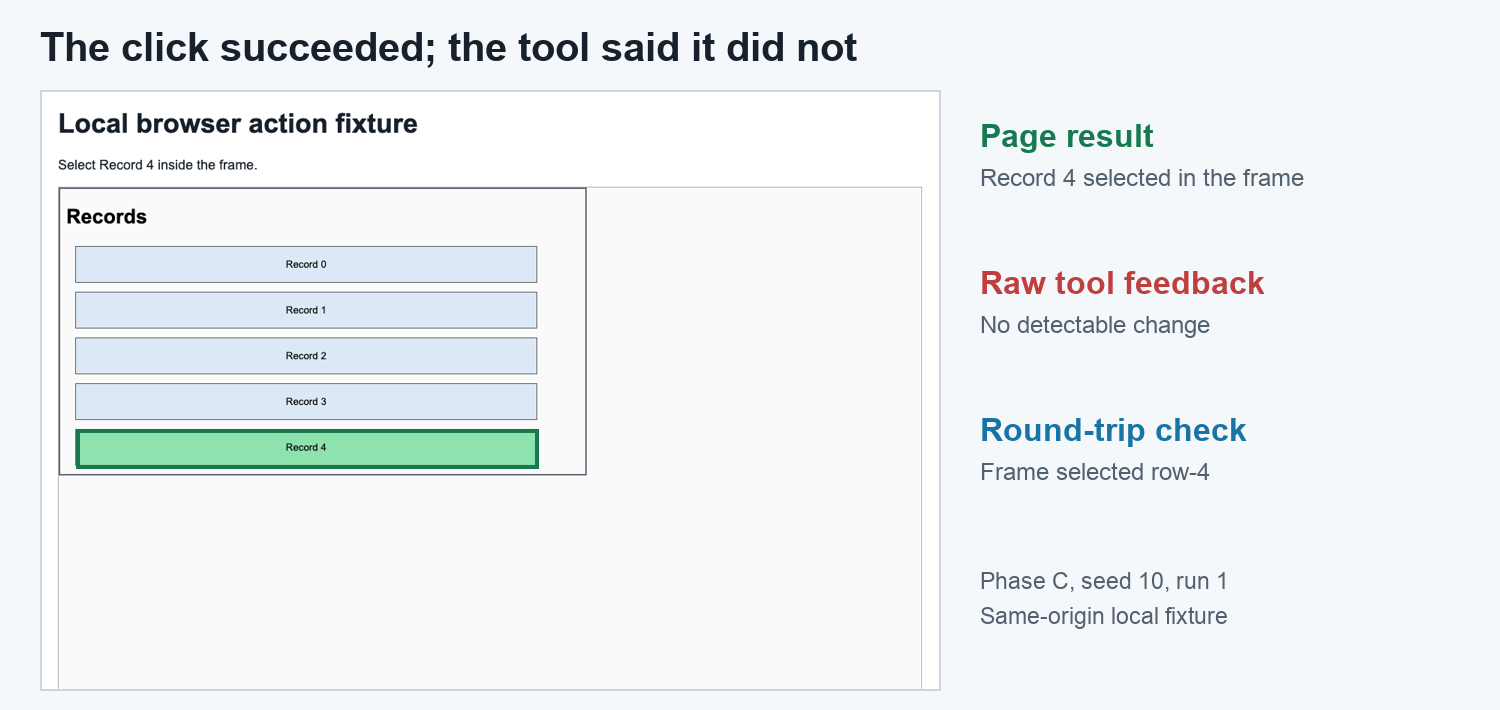
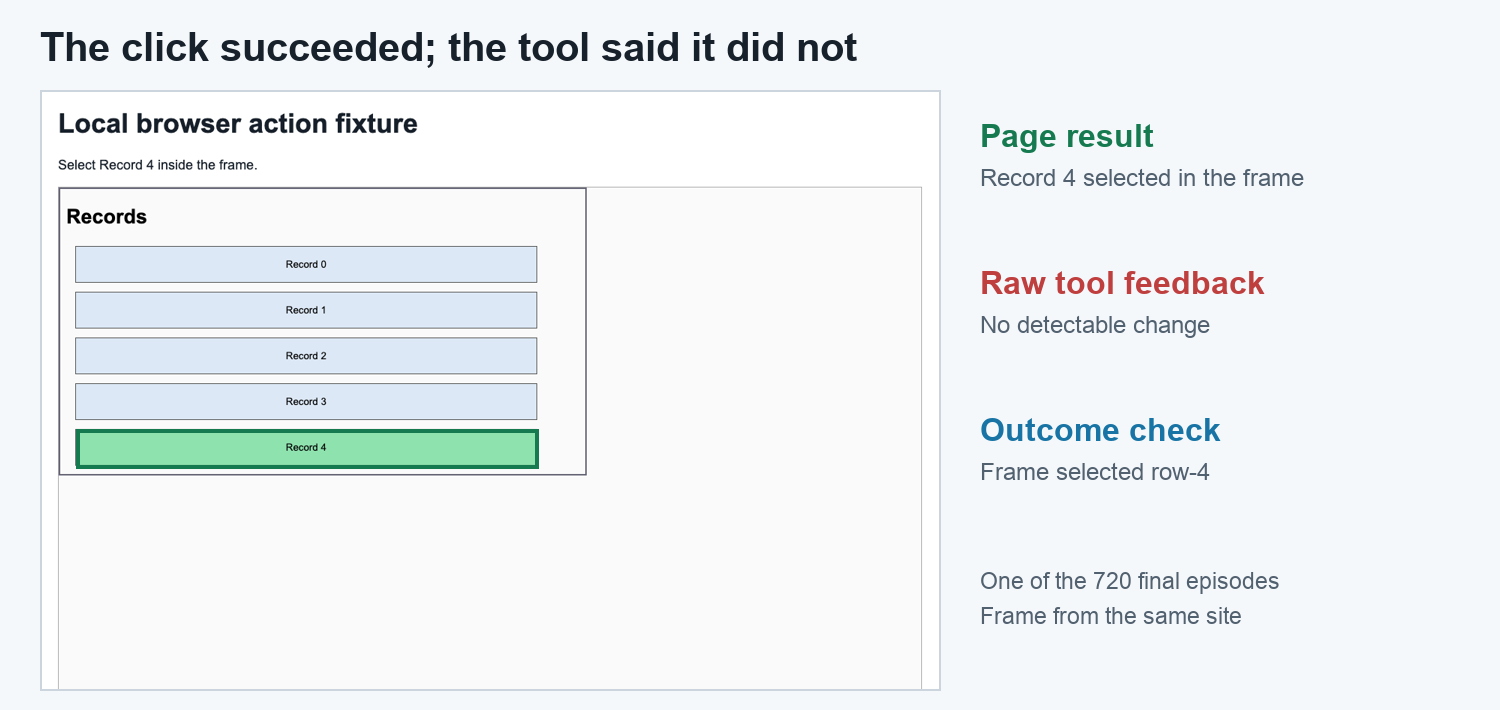
Final article text, new check name, and refreshed figures
Rename the task specific check to Outcome check in the article and two figures, explain the coordinate mismatch, add a section for web developers, and connect every paragraph to the one before.

Changed region(s): [[0.644, 0.8056, 0.8587, 0.8986], [0.644, 0.5887, 0.828, 0.6197]]

diff --git a/make_visual_evidence.py b/make_visual_evidence.py
@@ -69,9 +69,9 @@ def iframe():
     d.rectangle((76, 429, 538, 468), outline=GREEN, width=4)
     label(d, (980, 118), "Page result", "Record 4 selected in the frame", GREEN)
     label(d, (980, 265), "Raw tool feedback", "No detectable change", RED)
-    label(d, (980, 412), "Round-trip check", "Frame selected row-4", BLUE)
-    d.text((980, 568), "Phase C, seed 10, run 1", font=font(23), fill=MUTED)
-    d.text((980, 603), "Same-origin local fixture", font=font(23), fill=MUTED)
+    label(d, (980, 412), "Outcome check", "Frame selected row-4", BLUE)
+    d.text((980, 568), "One of the 720 final episodes", font=font(23), fill=MUTED)
+    d.text((980, 603), "Frame from the same site", font=font(23), fill=MUTED)
     base.save(OUT / "iframe_feedback_evidence.png")
 
 

diff --git a/make_phase_c_figure.py b/make_phase_c_figure.py
@@ -30,7 +30,7 @@ def main():
         for j,policy in enumerate(("unverified","generic","round_trip")):
             bar_y=y+36+j*32
             value=data["by_task"][task][policy]["successes"]
-            draw.text((55,bar_y),policy.replace("_"," ").title(),font=small,fill="#3b4855")
+            draw.text((55,bar_y),{"unverified":"Unverified","generic":"Generic","round_trip":"Outcome check"}[policy],font=small,fill="#3b4855")
             draw.rounded_rectangle((220,bar_y,1120,bar_y+21),radius=8,fill="#eef1f4")
             if value:
                 draw.rounded_rectangle((220,bar_y,220+900*value/60,bar_y+21),radius=8,fill=COLORS[policy])

diff --git a/draft.md b/draft.md
@@ -1,24 +1,32 @@
-# What Browser Agent Checks Can See, and What They Cannot Fix
+# I Broke a Browser Agent on Purpose. Spotting the Fault Was Not the Same as Fixing It
 
 *I replayed correct model decisions through four broken browser actions. A simple page check missed half of the wrong clicks, and raised a false alarm on every click that worked inside an embedded page.*
 
-[WebFovea](https://arxiv.org/html/2610.03036v2), a paper by Jiangang Han, describes a browser agent whose clicks landed at three quarters of the intended coordinates. A browser agent is a program that lets an artificial intelligence model inspect a web page and choose actions such as clicking a button. The model had aimed on a scaled down picture of the page, and the software used its coordinates as if they were measured on the full size page.
+[WebFovea](https://arxiv.org/html/2610.03036v2), a paper by Jiangang Han, reports a disquieting browser agent failure. A mismatch between screenshot and browser coordinates placed clicks at three quarters of their intended position. A click meant for a point 400 pixels across landed 300 pixels across.
 
-WebFovea reports other failures in the software between the model and the page. Special marker text leaked into search boxes, and a click inside a page embedded in another page was reported as having no effect. Its score in a 2026 contest on live websites rose from 31.0 to 57.0 out of 100 across four submissions using the same model. Each submission bundled several changes, and the live websites could vary, so the score alone does not show which fix mattered most. That is the gap I tried to look at on a small scale.
+The mismatch came from the service that runs the model, which shrank each screenshot before the model looked at it. The paper estimates that a 1920 by 1080 screenshot reached the model as about 1440 by 810, which is three quarters of the size. Anthropic's [vision documentation](https://platform.claude.com/docs/en/build-with-claude/vision) describes the same behavior for its own models. It says large images are scaled down to cap their cost, and that the model answers in positions on the resized picture. The paper's software used those positions as if they were measured on the full size screen, so every click landed at three quarters of the intended spot.
 
-I wanted to test what happens after the model makes a correct choice. I built a small browser site, recorded 80 successful decisions from Claude Haiku 5.5, a small, low cost model from Anthropic, and replayed those decisions with deliberate faults. A check is a small piece of code that looks at the page after an action and decides whether the action worked. I measured whether checks spotted the fault and whether the agent still finished the task.
+The agent in the paper is a browser agent, a program that lets an artificial intelligence model inspect a web page and choose actions such as clicking a button. Coordinates, the numbers in the click example above, are positions on the screen, given in pixels.
 
-Spotting a fault and getting past it turned out to be different problems. The [WebFovea paper and its code](https://github.com/jianganghan/WebFovea) motivated my setup. The results below come from my own browser pages and saved step by step logs.
+Besides the click error, WebFovea reports two more failures in the software between the model and the page. Hidden end of message markers from the model were typed into search boxes. A click inside a page embedded in another page worked, but was reported as having no effect.
+
+The paper fixed failures like these across four submissions to a 2026 contest on live websites. The agent's score rose from 31.0 to 57.0 out of 100 with the same model. Each submission bundled several changes, and the live websites could vary, so the score alone does not show which fix mattered most. That is the gap I tried to look at on a small scale.
+
+To look at that gap, I tested what happens after the model makes a correct choice. I built a small browser site with four short tasks, such as searching for a record and clicking a button. I asked Claude Haiku 5.5, a small, low cost model from Anthropic, to complete them.
+
+I saved 80 of its decisions that worked, then replayed each through browser code that I had deliberately broken. A check is a small piece of code that looks at the page after an action and decides whether the action worked. I measured whether checks spotted the fault and whether the agent, meaning the model plus the code that drives the browser, still finished the task.
+
+Spotting a fault and getting past it turned out to be different problems. The faults matter to anyone who asks an AI tool to click through a website, including web developers and people who build sites by describing them to an AI tool. The [WebFovea paper and its code](https://github.com/jianganghan/WebFovea) motivated my setup. The results below come from my own browser pages and saved step by step logs.
 
 The [code, step by step logs, figures, and recording](https://github.com/abduldattijo/web-agent-round-trip) are public. The [first test](https://github.com/abduldattijo/web-agent-round-trip/blob/main/results/phase_a.jsonl), where I ran the checks on 40 versions of each page, and the [final agent runs](https://github.com/abduldattijo/web-agent-round-trip/blob/main/results/phase_c.jsonl) support the counts below.
 
 ## One right decision, two different clicks
 
-The test page shows a grid of numbered buttons, Item 0 to Item 24. The agent saw a 900 pixel wide screenshot of it and was asked to click Item 15. It answered with the image point `(150, 413)`, meaning 150 pixels across and 413 down from the top left corner. The browser's visible area, called the viewport, was 1200 pixels wide. I made the screenshot smaller on purpose, to copy the problem in the paper.
+One of the 80 saved decisions shows the problem clearly. The test page shows a grid of numbered buttons, Item 0 to Item 24. The agent saw a 900 pixel wide screenshot of it and was asked to click Item 15. It answered with the image point `(150, 413)`, meaning 150 pixels across and 413 down from the top left corner. The browser's visible area, called the viewport, was 1200 pixels wide.
 
-The executor, the code that sends an action to the browser, must scale each image coordinate up to browser size. Here the browser is 1200 pixels wide and the image is 900, so the scale is four thirds. The working executor multiplied 150 by four thirds to get 200, and 413 by four thirds to get 550.67. It clicked `(200, 550.67)` in browser pixels and selected Item 15.
+I made the screenshot smaller on purpose, to copy the problem in the paper. That means the executor, the code that sends an action to the browser, must scale each image coordinate up to browser size. Here the browser is 1200 pixels wide and the image is 900, so the scale is four thirds. The working executor multiplied 150 by four thirds to get 200, and 413 by four thirds to get 550.67. It clicked `(200, 550.67)` in browser pixels and selected Item 15.
 
-The broken executor sent `(150, 413)` directly as browser pixels. That point fell on Item 10, one row above Item 15, so Item 10 was selected. The screenshot, instruction, and recorded model decision were identical in both replays.
+The broken executor skipped that scaling and sent `(150, 413)` directly as browser pixels. That point fell on Item 10, one row above Item 15, so Item 10 was selected. I saved the model's answer and ran it twice, once through each executor. The screenshot, instruction, and saved answer were identical both times.
 
 The following code shows the general conversion. In this experiment, both image dimensions were three quarters of the matching browser dimensions, so each coordinate was multiplied by four thirds.
 
@@ -28,7 +36,7 @@ browser_y = image_y * viewport_height / image_height
 page.mouse.click(browser_x, browser_y)
 ```
 
-Playwright is a tool that lets code control a browser. [Its mouse documentation](https://playwright.dev/python/docs/api/class-mouse) specifies browser viewport pixels for a click. The conversion belongs in the executor, the step between the model's answer and the browser. My 900 by 600 image and 1200 by 800 viewport follow the proportions of the three quarter error in WebFovea. This is a constructed example on my site, not a second observation from live websites.
+The click itself comes from Playwright, a tool that lets code control a browser. [Its mouse documentation](https://playwright.dev/python/docs/api/class-mouse) specifies browser viewport pixels for a click. The conversion belongs in the executor, the step between the model's answer and the browser. My 900 by 600 image and 1200 by 800 viewport follow the proportions of the three quarter error in WebFovea. This is a constructed example on my site, not a second observation from live websites.
 
 ![Two screenshots of the same recorded click show Item 15 selected with correct conversion and Item 10 selected with faulty conversion.](figures/continuous_click_seed12_comparison.png)
 
@@ -38,11 +46,11 @@ Watch the [continuous browser recording](https://github.com/abduldattijo/web-age
 
 ## What did I break, and what could the checks see?
 
-The [WebFovea paper](https://arxiv.org/html/2610.03036v2) treats each browser action as a round trip. The action travels from the model to the page, and the result travels back. The paper splits that trip into four steps.
+To choose what to break, I used the paper's way of describing a browser action. The [WebFovea paper](https://arxiv.org/html/2610.03036v2) treats each one as a round trip. The action travels from the model to the page, and the result travels back. The paper splits that trip into four steps.
 
 A parser turns the model's reply into an action. An executor sends the action to the page. Feedback tells the model what happened. Observation is what the model is shown afterwards, usually a new screenshot.
 
-An embedded frame, or iframe, is a page inside another page. A tooltip is the small label that appears beside a chart mark when the pointer rests on it. The text `[im_end]` in the table below stands in for an end of message marker that some AI models use. I added one deliberate fault at each step.
+Three terms in the table need a quick explanation. An embedded frame, or iframe, is a page inside another page. A tooltip is the small label that appears beside a chart mark when the pointer rests on it. The text `[im_end]` in the table below stands in for an end of message marker that some AI models use. I added one deliberate fault at each step.
 
 | Step | Task | Deliberate fault |
 | --- | --- | --- |
@@ -51,17 +59,17 @@ An embedded frame, or iframe, is a page inside another page. A tooltip is the sm
 | Feedback | Select a row inside an embedded frame | Say “No detectable change” after the click succeeds |
 | Observation | Hover over a chart mark to read a value | Capture the image before the tooltip appears |
 
-My embedded frame comes from the same site as its parent page, which is easier because the page can read its own frame directly. The paper's frame example involved a harder case across sites.
+In the Feedback row, my embedded frame comes from the same site as its parent page, which is easier because the page can read its own frame directly. The paper's frame example involved a harder case across sites.
 
-For each task, I generated 40 layouts with different target positions or values. A layout is one arrangement of the same page. Every check was applied to 40 faulty actions and 40 working actions. The working actions matter because a check that always warns would catch every fault and also interrupt every correct action.
+To see whether the checks caught these faults, I generated 40 layouts for each task, with different target positions or values. A layout is one arrangement of the same page. Every check was applied to 40 faulty actions and 40 working actions. The working actions matter because a check that always warns would catch every fault and also interrupt every correct action.
 
-The page kept its own record of the text entered, the button clicked, the frame row selected, and the tooltip visible when the screenshot was taken. That record was the answer key for counting detected faults. The checks could not read it while deciding whether to warn.
+To know whether a check was right, the page kept its own record. It logged the text entered, the button clicked, the frame row selected, and the tooltip visible when the screenshot was taken. That record was the answer key for counting detected faults. The checks could not read it while deciding whether to warn.
 
-I compared four policies, meaning four ways of checking an action. **Unverified** accepted the browser tool's message to the model as true. **Generic** looked for changes in the web address or the main page's state. **Pixel** compared screenshots. **Round trip** checked the specific outcome requested, such as the exact field text, the selected button, the row inside the frame, or whether the chart value appeared.
+I compared four policies, meaning four ways of checking an action. **Unverified** accepted the message the browser tool sent back to the model, such as “No detectable change”, as true. **Generic** looked for changes in the web address or the main page's state. **Pixel** compared screenshots. **Outcome check** compared the page with the specific outcome requested, such as the exact field text, the selected button, the row inside the frame, or whether the chart value appeared.
 
 The first table counts faults caught out of 40 faulty actions. The second counts false alarms out of 40 working actions. A higher count is better in the first table and worse in the second.
 
-| Faults caught out of 40 | Unverified | Generic | Pixel | Round trip |
+| Faults caught out of 40 | Unverified | Generic | Pixel | Outcome check |
 | --- | --- | --- | --- | --- |
 | Corrupted search text | 0 | 0 | 3 | 40 |
 | Wrong click position | 0 | 20 | 20 | 40 |
@@ -70,7 +78,7 @@ The first table counts faults caught out of 40 faulty actions. The second counts
 
 *Table 1. Faults caught in the first test, which used 40 layouts. Higher counts mean more of the injected faults were detected. Counts came from the page's own record.*
 
-| False alarms out of 40 | Unverified | Generic | Pixel | Round trip |
+| False alarms out of 40 | Unverified | Generic | Pixel | Outcome check |
 | --- | --- | --- | --- | --- |
 | Working exact search | 0 | 0 | 40 | 0 |
 | Working target click | 0 | 0 | 0 | 0 |
@@ -79,58 +87,58 @@ The first table counts faults caught out of 40 faulty actions. The second counts
 
 *Table 2. Warnings on 40 working actions per task. Lower counts mean fewer needless warnings.*
 
-Generic missed 20 of 40 wrong clicks. In those, the click hit a different button, which turned green, so the page looked as if it had responded. The other 20 clicks hit empty space, and Generic caught those. It also warned on all 40 correct frame clicks because the main page did not change when the embedded page did.
+The simple checks failed in different ways. Generic missed 20 of 40 wrong clicks. In those, the click hit a different button, which turned green, so the page looked as if it had responded. The other 20 clicks hit empty space, and Generic caught those. It also warned on all 40 correct frame clicks because the main page did not change when the embedded page did.
 
-Pixel found only three corrupted searches and warned on all 40 working searches, because the page looks different after every search. A change in pixels does not prove that an exact query survived parsing.
+Pixel had a different weakness. It found only three corrupted searches and warned on all 40 working searches, because the page looks different after every search. A change in pixels does not prove that an exact query survived parsing.
 
-Round trip found all 40 faults in each task and made no false alarms on the matching working actions. I wrote both the checks and the page code used as the answer key. The checks were built for these faults, so perfect detection here proves little about a different website. A mistake in my thinking could therefore sit in both.
+By contrast, Outcome check found all 40 faults in each task and made no false alarms on the matching working actions. I wrote both the checks and the page code used as the answer key. The checks were built for these faults, so perfect detection here proves little about a different website. A mistake in my thinking could therefore sit in both.
 
 ![Clean and corrupted text shown in a search field.](figures/search_token_evidence.png)
 
-*Figure 2. Screenshot by author. The parser adds `[im_end]` to `Record-10`. The field changes visibly, but an exact search needs the original name.*
+*Figure 2. Screenshot by author. The parser adds `[im_end]` to the search term `Record-10`. The field changes visibly, but an exact search needs the original name.*
 
 ## Did spotting a fault help the agent finish?
 
-Spotting a fault is different from getting past it. I used 20 of the 40 layouts for a second experiment. I chose those 20 before this full run. Haiku first made one decision on a working page for each of the 80 combinations of task and layout, four tasks times 20 layouts. Every one of those decisions worked, and I kept all 80.
+Spotting a fault was only half of the question. I used the first 20 of the 40 layouts for a second experiment, and fixed that choice before any model call. Haiku first made one decision on a working page for each of the 80 combinations of task and layout, four tasks times 20 layouts. Every one of those decisions worked, and I kept all 80.
 
 I replayed each recorded decision with the fault enabled, then let the model see the result, as each policy would report it, and respond. An **episode** is one attempt to complete a task. The model could stop, retry, or wait, meaning pause so the page could finish changing. It had up to three browser actions.
 
-This comparison used Unverified, Generic, and Round trip. Pixel was measured only in the first test. Each policy ran three times on the same 20 layouts for each of four tasks, yielding `4 × 20 × 3 × 3 = 720` final episodes, from four tasks, 20 layouts, three policies, and three runs. I scored an episode as successful when the requested action reached its target, or when the chart answer came from a screenshot that actually showed the value.
+This comparison used Unverified, Generic, and Outcome check. Pixel was evaluated for fault detection but not for task completion, so this experiment cannot say whether it would have helped the agent finish. Each policy ran three times on the same 20 layouts for each of four tasks, yielding `4 × 20 × 3 × 3 = 720` final episodes, from four tasks, 20 layouts, three policies, and three runs. I scored an episode as successful when the requested action reached its target, or when the chart answer came from a screenshot that actually showed the value.
 
-I left the search parser and click executor broken on every retry, because fixing code is not something the model can do. This shows what better information alone can give it. A check could describe their errors, but another action through the same code would make the same mistake.
+One choice shapes the results below. I left the search parser and click executor broken on every retry, because fixing code is not something the model can do. This shows what better information alone can give it. A check could describe their errors, but another action through the same code would make the same mistake.
 
 ![Bar chart of successful episodes for four tasks under three checking policies.](figures/phase_c_success.png)
 
 *Figure 3. Image by author. Each count is successful episodes out of 60 for one task and policy. Higher means more tasks completed. The click and search faults persisted under all policies; either check gained four chart completions over Unverified.*
 
-| Task with fault enabled | Unverified | Generic | Round trip |
+| Task with fault enabled | Unverified | Generic | Outcome check |
 | --- | --- | --- | --- |
-| Exact search with extra token | 0/60 | 0/60 | 0/60 |
+| Exact search with extra marker | 0/60 | 0/60 | 0/60 |
 | Click sent to wrong position | 0/60 | 0/60 | 0/60 |
 | Correct frame click, false message | 60/60 | 60/60 | 60/60 |
 | Chart tooltip captured too early | 56/60 | 60/60 | 60/60 |
 
 *Table 3. Successful episodes from the final run. Each cell contains 20 layouts repeated three times. Higher counts mean more completed tasks.*
 
-That persistence matters when reading the zeros. The zeros were expected, and they show what a diagnosis does and does not give the model. On one search, Round trip read `Record-10[im_end]` back from the field and told the model it differed from `Record-10`. A retry still went through the same parser.
+That persistence matters when reading the zeros. The zeros were expected, and they show what a diagnosis does and does not give the model. On one search, Outcome check read `Record-10[im_end]` back from the field and told the model it differed from `Record-10`. A retry still went through the same parser.
 
-The click episodes show something less obvious. In all 60 Round trip episodes, the check reported the item hit and supplied the target's correct browser position. The instructions still told the model to answer in image coordinates, and it repeated its original point all three times. The unchanged executor therefore sent three wrong clicks in every episode.
+The click episodes show something less obvious. In all 60 Outcome check episodes, the check reported the item hit and supplied the target's correct browser position. The instructions still told the model to answer in image coordinates, and it repeated its original point all three times. The unchanged executor therefore sent three wrong clicks in every episode.
 
 On the frame task the result was the opposite. The browser tool said “No detectable change,” yet the page selected the correct row. All three policies completed all 60 episodes.
 
-Generic told the model nothing had changed, because it watched only the main page, and in 4 of 60 episodes the model clicked a second time for no reason. Round trip read the frame and needed no extra click. The browser tool's message and the page disagreed, but the screenshot showed the row selected, so the model could finish.
+Generic told the model nothing had changed, because it watched only the main page, and in 4 of 60 episodes the model clicked a second time for no reason. Outcome check read the frame and needed no extra click. The browser tool's message and the page disagreed, but the screenshot showed the row selected, so the model could finish.
 
 ![Record 4 selected in an embedded frame beside misleading tool feedback.](figures/iframe_feedback_evidence.png)
 
-*Figure 4. Screenshot by author. The Round trip check reports the selected row while raw tool feedback says “No detectable change.” The embedded frame comes from the same site.*
+*Figure 4. Screenshot by author. The Outcome check reports the selected row while raw tool feedback says “No detectable change.” The embedded frame comes from the same site.*
 
-The early tooltip was the only task with a completion difference. Unverified succeeded 56 times out of 60. In four episodes it stopped before a screenshot showed the value. Either check led the model to hover again or wait, then take a new screenshot, and it succeeded in all 60.
-
-The gain is four of 60 episodes, or 6.7 percentage points. To see how much the gain could vary, I redrew the 20 layouts many times, keeping each layout's three runs together. The middle 95 percent of the redrawn gains ran from 0 to 15 points. Zero gain is still possible, so this small result does not establish a reliable advantage. Generic matched Round trip on completion, so the simpler check was enough on this task.
+The chart task, where the screenshot came before the tooltip appeared, was the only one with a completion difference. Unverified succeeded 56 times out of 60. In four episodes it stopped before a screenshot showed the value. Either check led the model to hover again or wait, then take a new screenshot, and it succeeded in all 60.
 
 ![Chart mark without a tooltip beside the same layout after a second hover reveals Value 89.](figures/hover_timing_evidence.png)
 
 *Figure 5. Screenshot by author. These are separate policy episodes on the same layout. Unverified stopped before the value appeared in its screenshot; Generic repeated the hover and saw 89.*
+
+The gain is four of 60 episodes, or 6.7 percentage points. To see how much the gain could vary, I redrew the 20 layouts many times, keeping each layout's three runs together. The middle 95 percent of the redrawn gains ran from 0 to 15 points. Zero gain is still possible, so this small result does not establish a reliable advantage. Generic matched Outcome check on completion, so the simpler check was enough on this task.
 
 ## Changes and limits that affect the comparison
 
@@ -140,13 +148,32 @@ A development run showed that some model replies were cut off before the action 
 
 I reran the full set in four separate groups of 180 episodes. The prompts, faults, checks, scoring rules, and 20 selected layouts stayed the same across that schedule change.
 
-The 20 layouts in the full run were a subset of the 40 layouts in the first test. The study used one simple site, one model and prompt, deliberately injected faults, and a frame from the same site. Each final episode began with a decision already known to work on a clean page. These counts measure recovery on this setup, not the frequency of such failures on public websites or accuracy on harder browsing tasks.
+Beyond that schedule change, the study has limits. The 20 layouts in the full run were a subset of the 40 layouts in the first test. The study used one simple site, one model and prompt, deliberately injected faults, and a frame from the same site. Each final episode began with a decision already known to work on a clean page. These counts measure recovery on this setup, not the frequency of such failures on public websites or accuracy on harder browsing tasks.
 
-The final loop used about $0.24 in logged model calls. All logged model work for this article, including development and the stopped first attempt, totaled about $0.27.
+The experiment was cheap to run. The final loop used about 24 US cents in logged model calls. All logged model work for this article, including development and the stopped first attempt, totaled about 27 US cents.
+
+## What does this mean if you test or build websites with AI tools?
+
+The test was small, but the WebFovea paper reports all four kinds of fault on live websites. That makes them worth knowing about if you ask an AI tool to click through a site. This applies to web developers who test pages this way, and to people who build sites by describing them to an AI tool, sometimes called vibe coding. The table below turns each result from the test into something you can do.
+
+| What happened in the test | What it means for you | What to do |
+| --- | --- | --- |
+| I injected a conversion error. The model had chosen the right button in all 80 saved decisions, and only the broken conversion changed the click. | If an AI tool clicks the wrong thing, the model may not be the problem. | Check how screenshot positions are converted before you rewrite the prompt or switch models. Log the screenshot size and the browser window size. |
+| The tool said “No detectable change” in all 180 frame episodes, though every click had worked. | A message that nothing happened is not proof that nothing happened. | If your page uses iframes, check the state inside the frame and not only the outer page. |
+| I injected a fault that added a stray marker to the text typed into a search box. The paper found markers like this in real runs. | A tool can type something different from what you asked. | Read back what was typed into a field before you trust the result. |
+| In 4 of 60 runs without a check, the screenshot came before the tooltip appeared, so the value was missed. | A value that shows only after a hover or a delay can be missed. | Wait, then take a new screenshot before the tool answers. |
+
+*Table 4. What each result means for someone who tests or builds with AI tools. Each row comes from a result reported above.*
+
+These are suggestions from one small test, so check them against your own site and tools. One idea goes beyond what I measured. If you build a site, showing an important value in the page text, and not only on hover, may make it easier for a screenshot based tool to read. I did not test that, so treat it as a guess.
+
+A last suggestion is for anyone who builds or checks a site with an AI tool. If the tool says it clicked a button but the page looks the same, ask it to read the page back and say what changed. That is what the Outcome check did in this experiment.
 
 ## What would I check in a browser agent?
 
-I would save the model's request, the image and browser dimensions, and the action actually sent to the browser. I would also record the element or frame that received it and the observation shown to the model. The click conversion above makes one step explicit, the move from image position to browser position. An exact search also needs the text read back from the search box. A frame click needs the state of that frame, and a chart answer needs a screenshot that contains its value.
+These faults all happened between the model's answer and the page. So I would save the model's request, the image and browser dimensions, and the action actually sent to the browser. I would also record the element or frame that received it and the observation shown to the model.
+
+The click conversion above makes one step explicit, the move from image position to browser position. An exact search also needs the text read back from the search box. A frame click needs the state of that frame, and a chart answer needs a screenshot that contains its value.
 
 Checks can reveal a mismatch and can help when another observation supplies missing evidence. They cannot correct a persistent parser or executor fault unless the agent or its surrounding code changes how the next action is sent. When an agent appears to reason badly, inspect the action's path through the browser before changing the prompt.
 
@@ -155,5 +182,6 @@ After a failed click, would your logs show the coordinates the model asked for, 
 ## Selected sources
 
 - [WebFovea paper](https://arxiv.org/html/2610.03036v2), for the reported live site failures and four step framing.
+- [Anthropic vision documentation](https://platform.claude.com/docs/en/build-with-claude/vision), for how large images are resized before the model sees them, and how the model's coordinates relate to the resized image.
 - [Playwright Mouse API](https://playwright.dev/python/docs/api/class-mouse), for the browser pixel convention.
 - [Experiment code and raw results](https://github.com/abduldattijo/web-agent-round-trip), including the browser pages, step by step logs, figures, and recording.
